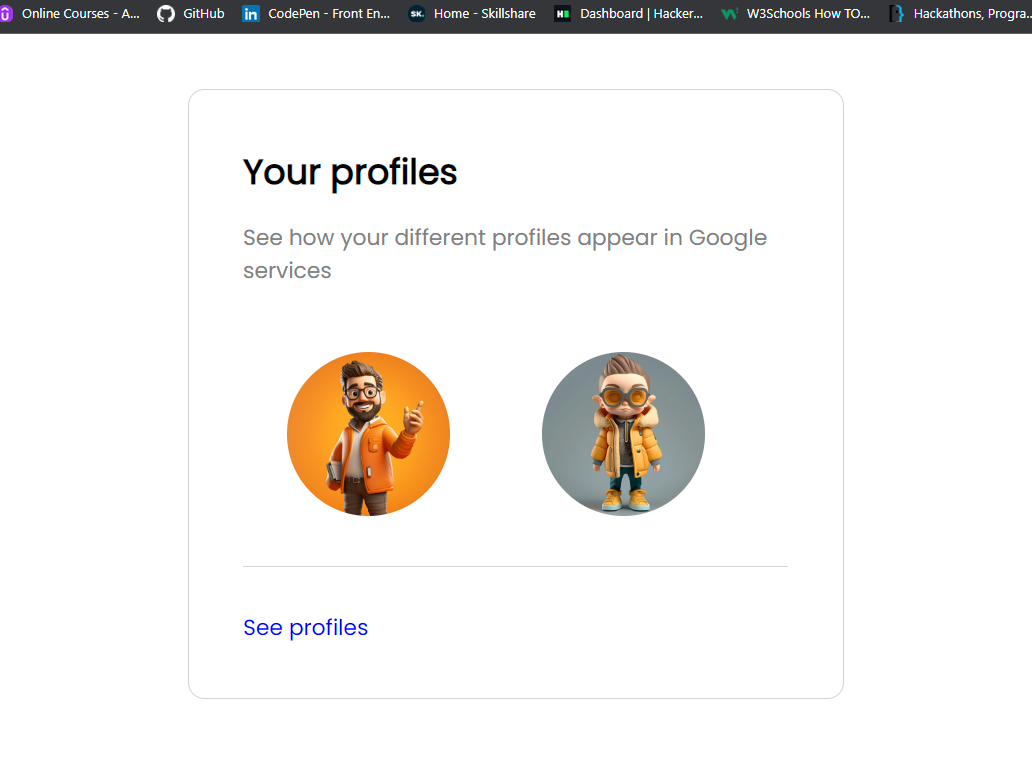
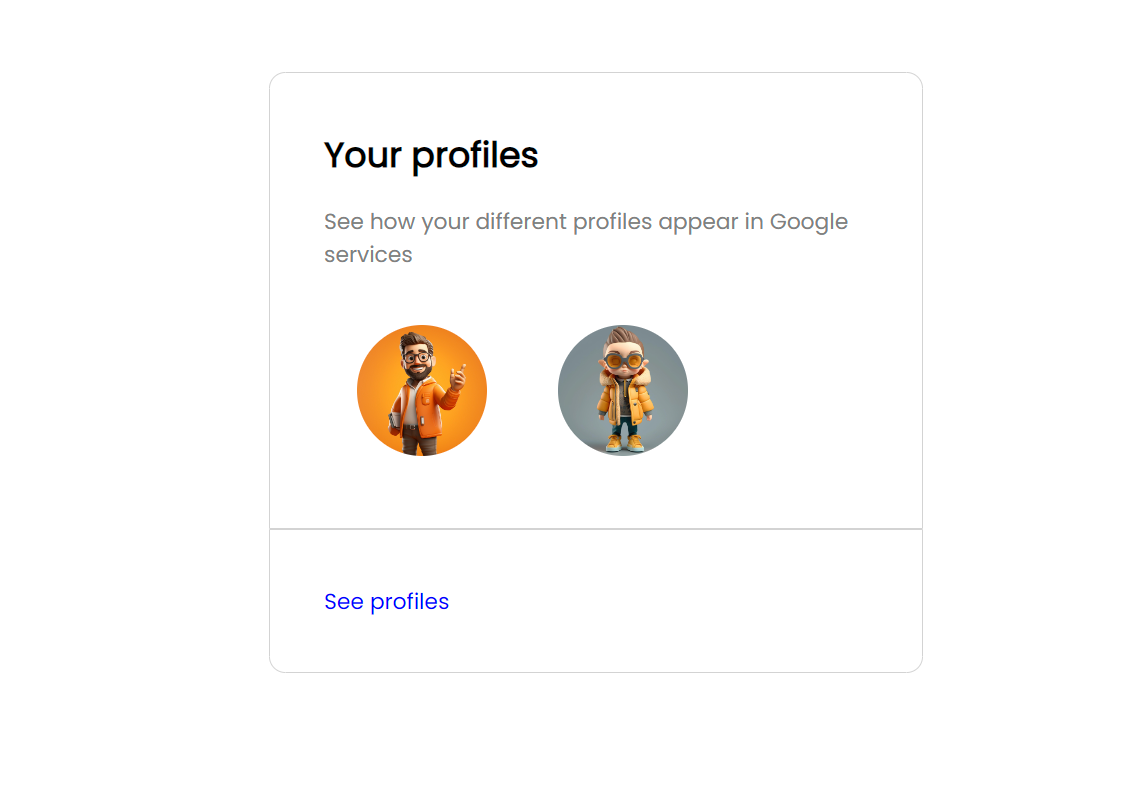
updated second output

diff --git a/DAY1 Assignments/second/styles.css b/DAY1 Assignments/second/styles.css
@@ -1,17 +1,23 @@
 @import url('https://fonts.googleapis.com/css2?family=Poppins:wght@200;300;400&display=swap');
 
-.profile__container {
-	border: 1px solid lightgray;
-	width: 500px;
+.main {
+	width: 600px;
 	padding: 30px 50px;
 	margin: 50px auto;
-	border-radius: 15px;
 	font-family: 'Poppins', sans-serif;
 	font-weight: 400;
 }
+
+.profile__container {
+	border: 1px solid lightgray;
+	padding: 30px 50px;
+	border-top-right-radius: 15px;
+	border-top-left-radius: 15px;
+}
+
 .avatar {
-	width: 150px;
-	margin: 40px;
+	width: 120px;
+	margin: 30px;
 	border-radius: 50%;
 }
 p {
@@ -20,10 +26,12 @@ p {
 }
 
 .container {
-	border-top: 1px solid lightgray;
-	padding: 0;
-	width: 100%;
-	margin-bottom: 40px;
+	border: 1px solid lightgray;
+	width: 600px;
+	padding: 30px 50px;
+	box-sizing: border-box;
+	border-bottom-left-radius: 15px;
+	border-bottom-right-radius: 15px;
 }
 
 .profile {

diff --git a/DAY1 Assignments/second/index.html b/DAY1 Assignments/second/index.html
@@ -7,7 +7,7 @@
 		<link rel="stylesheet" href="styles.css" />
 	</head>
 	<body>
-		<div class="profile__container">
+		<!-- <div class="profile__container">
 			<h1 class="title">Your profiles</h1>
 			<p>See how your different profiles appear in Google services</p>
 
@@ -15,6 +15,19 @@
 			<img src="images/avatar2.jpg" alt="" class="avatar" />
 			<div class="container"></div>
 			<p class="profile">See profiles</p>
+		</div> -->
+
+		<div class="main">
+			<div class="profile__container">
+				<h1 class="title">Your profiles</h1>
+				<p>See how your different profiles appear in Google services</p>
+
+				<img src="images/avatar1.jpg" alt="" class="avatar" />
+				<img src="images/avatar2.jpg" alt="" class="avatar" />
+			</div>
+			<div class="container">
+				<p class="profile">See profiles</p>
+			</div>
 		</div>
 	</body>
 </html>
